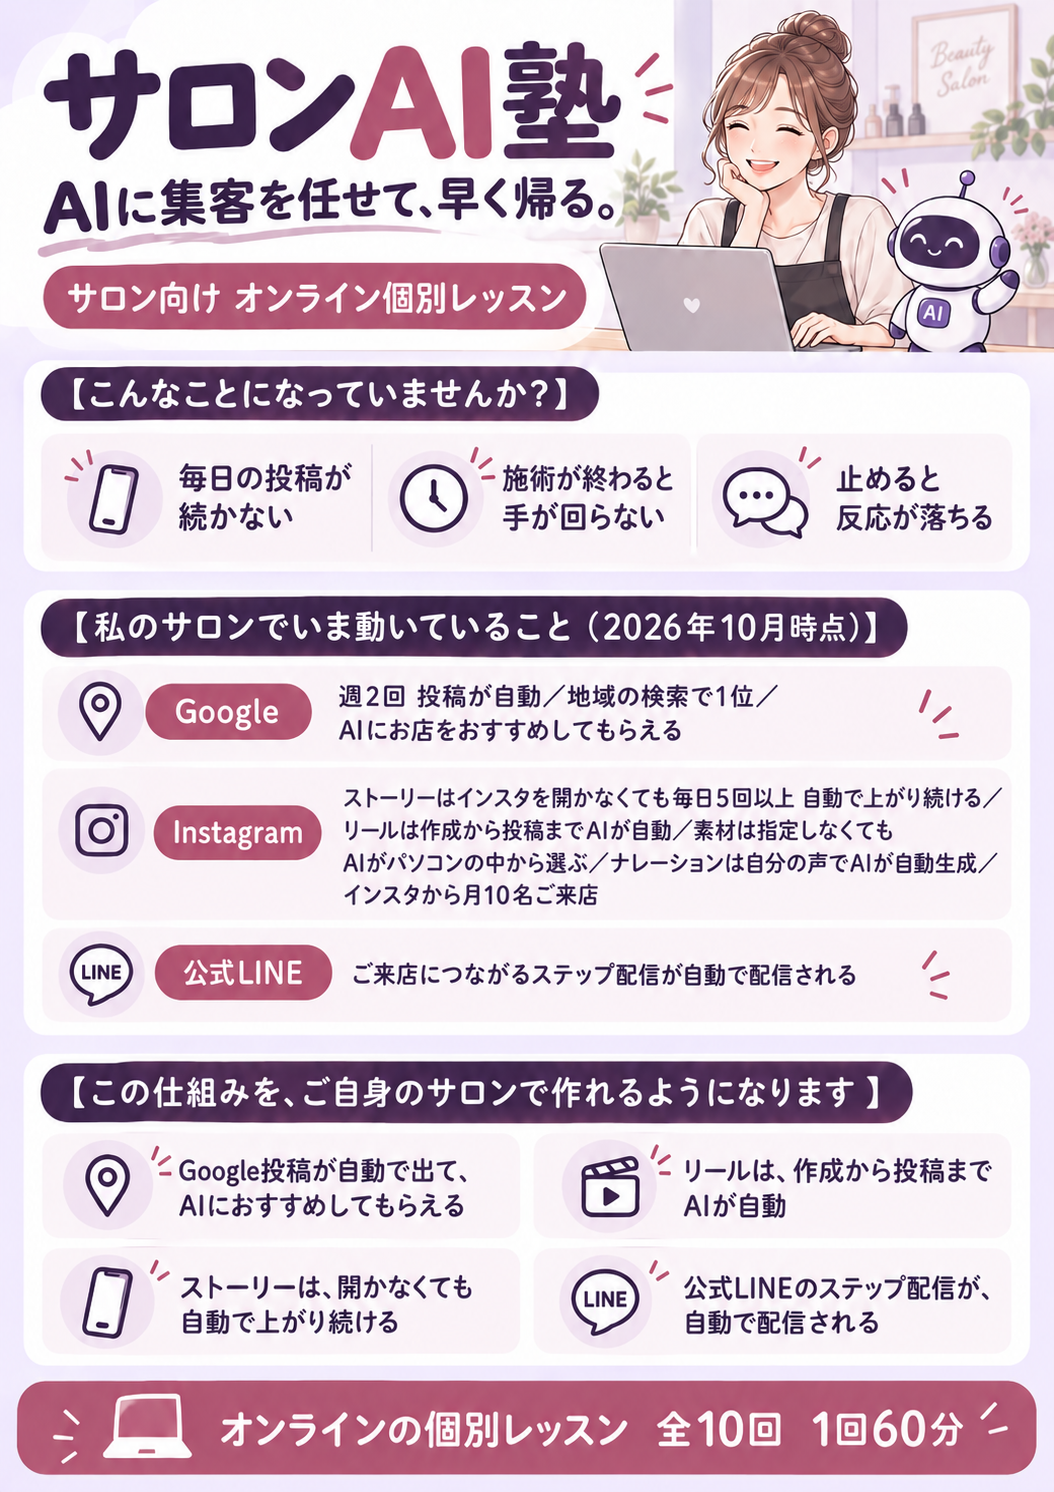
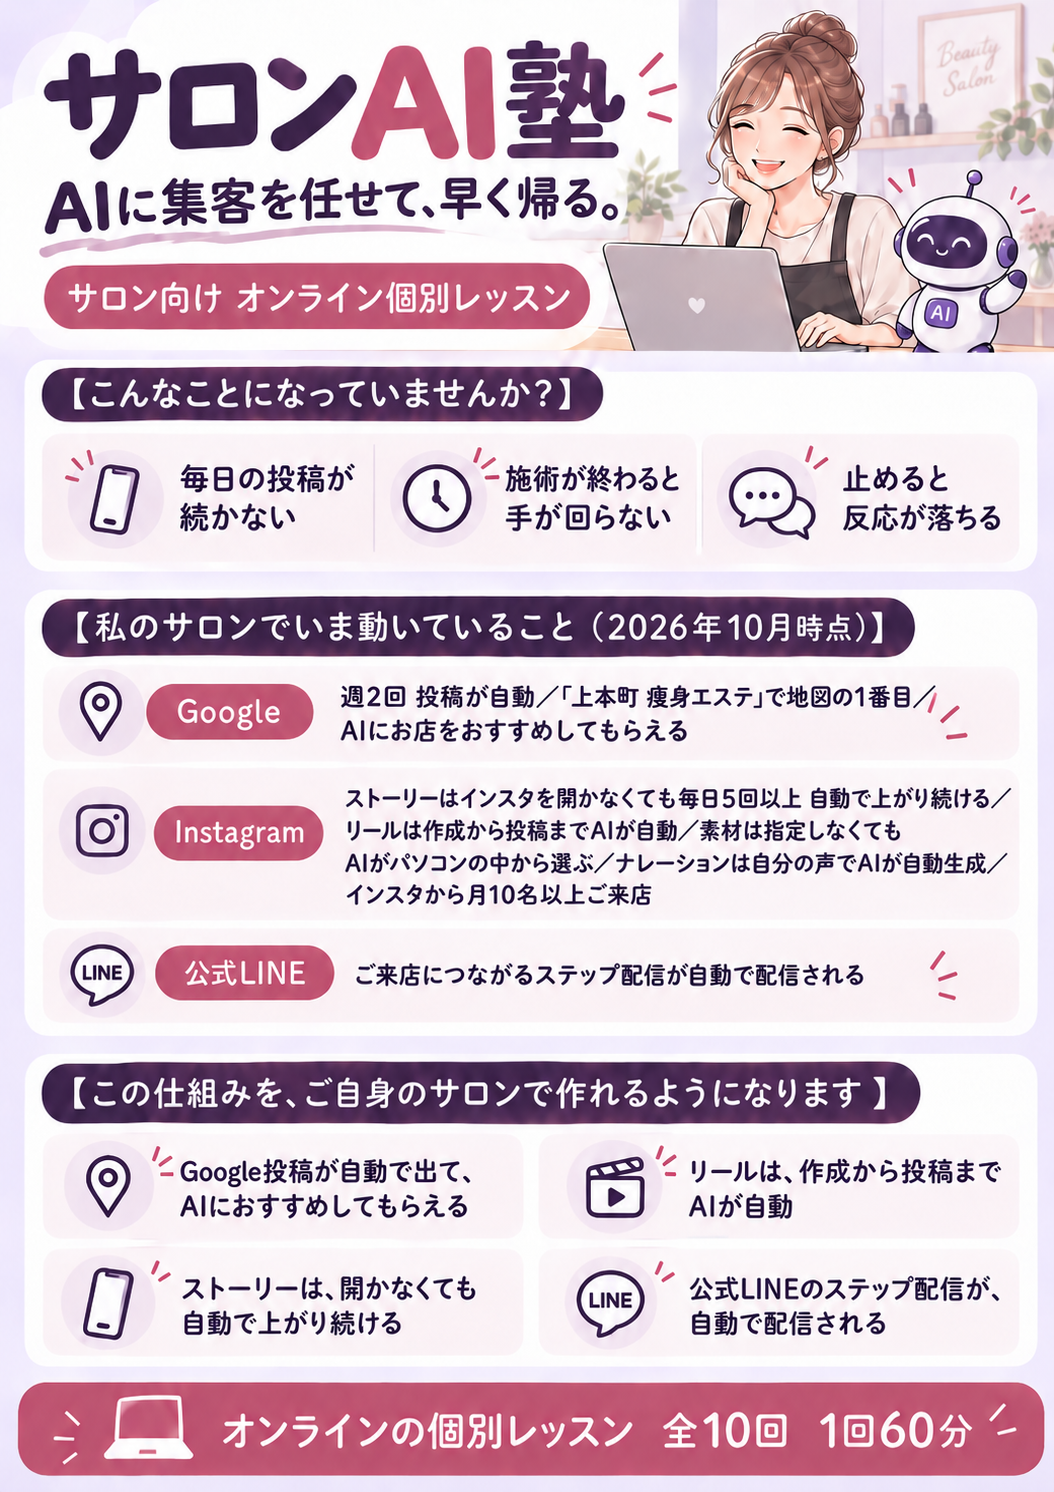
fix: 実績の条件を明記（上本町 痩身エステで1番目・月10名以上）＋実績をHTMLでも表示
Claude-Session: https://claude.ai/code/session_01SQEPjvsSrdDBAS5PyZm1MM

diff --git a/saas_app/public/salon-ai-school.html b/saas_app/public/salon-ai-school.html
@@ -265,8 +265,37 @@
 
     <div class="sheet">
       <img src="/salon-ai-school.webp" width="1054" height="1492" loading="eager" decoding="async"
-           alt="サロンAI塾の案内。AIに集客を任せて、早く帰る。サロン向けオンライン個別レッスン。私のサロンでいま動いていること（2026年10月時点）は、Googleが週2回の自動投稿と地域の検索で1位、AIにお店をおすすめしてもらえること。Instagramはストーリーがインスタを開かなくても毎日5回以上自動で上がり続け、リールは作成から投稿までAIが自動、素材は指定しなくてもAIがパソコンの中から選び、ナレーションは自分の声でAIが自動生成、インスタから月10名のご来店。公式LINEはご来店につながるステップ配信が自動で配信されること。この仕組みをご自身のサロンで作れるようになります。オンラインの個別レッスン 全10回 1回60分。">
+           alt="サロンAI塾の案内。AIに集客を任せて、早く帰る。サロン向けオンライン個別レッスン。私のサロンでいま動いていること（2026年10月時点）は、Googleが週2回の自動投稿と「上本町 痩身エステ」で地図の1番目、AIにお店をおすすめしてもらえること。Instagramはストーリーがインスタを開かなくても毎日5回以上自動で上がり続け、リールは作成から投稿までAIが自動、素材は指定しなくてもAIがパソコンの中から選び、ナレーションは自分の声でAIが自動生成、インスタから月10名以上のご来店。公式LINEはご来店につながるステップ配信が自動で配信されること。この仕組みをご自身のサロンで作れるようになります。オンラインの個別レッスン 全10回 1回60分。">
     </div>
+
+    <section>
+      <p class="label">黒木のサロンで、いま動いていること（2026年10月時点）</p>
+      <div class="item">
+        <h3>Google</h3>
+        <ul>
+          <li>週2回、投稿が自動で出ています</li>
+          <li>「上本町 痩身エステ」で地図の1番目に出ています</li>
+          <li>AIにお店をおすすめしてもらえます</li>
+        </ul>
+      </div>
+      <div class="item">
+        <h3>Instagram</h3>
+        <ul>
+          <li>ストーリーは、インスタを開かなくても毎日5回以上 自動で上がり続けます</li>
+          <li>リールは、作成から投稿までAIが自動でやります</li>
+          <li>使う素材は指定しなくても、AIがパソコンの中から選びます</li>
+          <li>ナレーションは、自分の声でAIが自動生成します</li>
+          <li>インスタから月10名以上のご来店があります</li>
+        </ul>
+      </div>
+      <div class="item">
+        <h3>公式LINE</h3>
+        <ul>
+          <li>ご来店につながるステップ配信が、自動で配信されます</li>
+        </ul>
+      </div>
+      <p class="note" style="margin-top:16px">検索の結果は、ご覧になる場所や端末で変わります。ここに書いているのは黒木のサロンの実績で、受講された方に同じ結果をお約束するものではありません。</p>
+    </section>
 
     <details class="more">
       <summary><span class="t-closed">講座の詳しい内容を見る</span><span class="t-open">閉じる</span></summary>
